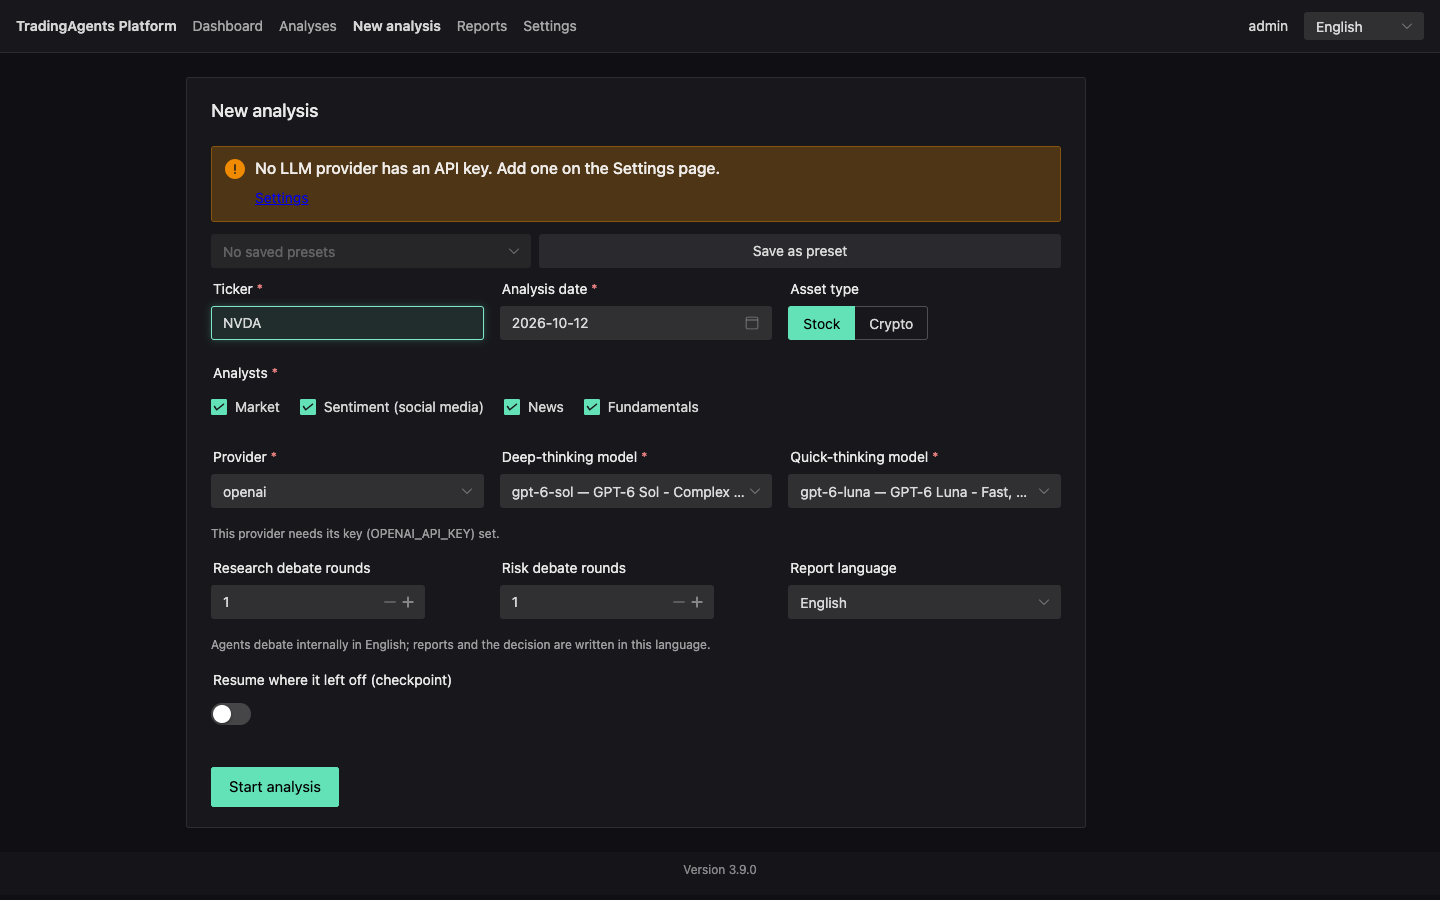
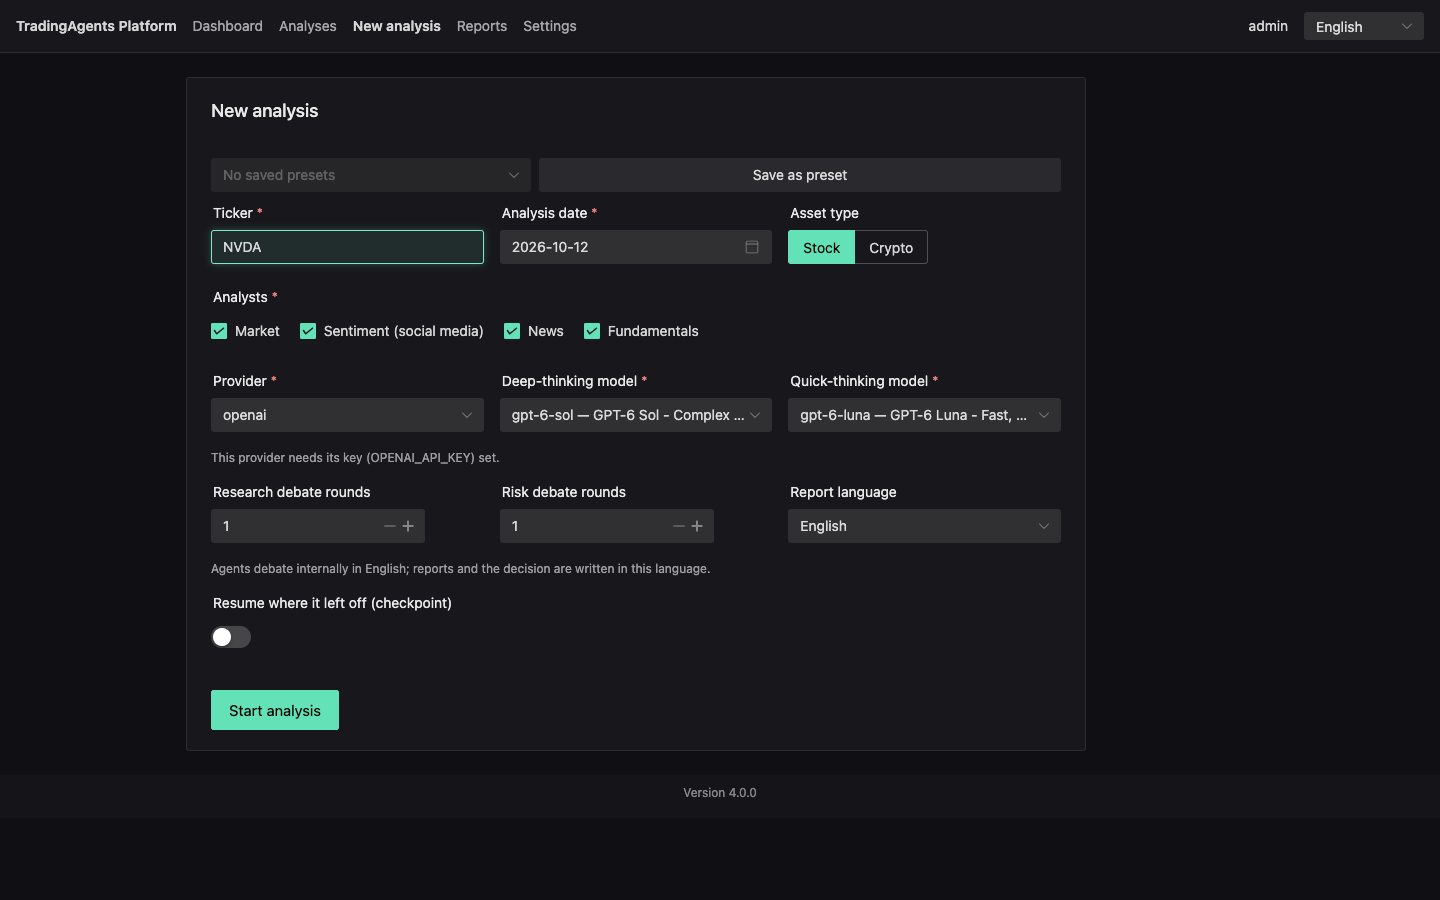
Address R1-1: Restore README screenshots that lost their content

diff --git a/e2e/screenshots/pages.shot.ts b/e2e/screenshots/pages.shot.ts
@@ -1,80 +1,40 @@
-import { expect, test } from '@playwright/test'
+import { expect, test, type APIRequestContext } from '@playwright/test'
 import { replayedRun } from './runs'
 import { shot } from './support'
 import { csrfHeaders } from '../tests/support'
 
+/** A dummy provider key, so the pages show no "no LLM provider has an API key" warning. */
+async function setProviderKey(request: APIRequestContext) {
+  const response = await request.put('/api/secrets/OPENAI_API_KEY', {
+    headers: await csrfHeaders(request),
+    data: { value: 'sk-screenshot-demo-0000' },
+  })
+  expect(response.ok(), await response.text()).toBe(true)
+}
+
 // README, "3. Add an API key": Settings with the provider keys.
-test('settings', async ({ page }) => {
+test('settings', async ({ page, request }) => {
+  await setProviderKey(request)
   await page.goto('/settings')
   await expect(page.getByRole('row', { name: /OPENAI_API_KEY/ })).toBeVisible()
   await shot(page, 'settings')
 })
 
 // README, "4. Start an analysis": the form, once the catalog has filled in the providers and models.
-test('new analysis form', async ({ page }) => {
+test('new analysis form', async ({ page, request }) => {
+  await setProviderKey(request)
   await page.goto('/analyses/new')
   await page.getByPlaceholder('e.g. NVDA, THYAO.IS, BTC-USD').fill('NVDA')
   await expect(page.getByText(/This provider needs its key/)).toBeVisible({ timeout: 30_000 })
+  await expect(page.getByText(/No LLM provider has an API key/)).toHaveCount(0)
   await shot(page, 'new-analysis')
-})
-
-// README, "4. Start an analysis": the presets listed in Settings.
-test('presets in settings', async ({ page, request }) => {
-  const headers = await csrfHeaders(request)
-  const values = {
-    llmProvider: 'deepseek',
-    deepThinkLlm: 'deepseek-v4-pro',
-    quickThinkLlm: 'deepseek-v4-flash',
-    outputLanguage: 'English',
-  }
-  for (const preset of [
-    {
-      name: 'DeepSeek, all analysts',
-      values: {
-        ...values,
-        analysts: ['market', 'social', 'news', 'fundamentals'],
-        maxDebateRounds: 2,
-        maxRiskDiscussRounds: 1,
-      },
-    },
-    {
-      name: 'Quick market check',
-      values: { ...values, analysts: ['market'], maxDebateRounds: 1, maxRiskDiscussRounds: 1 },
-    },
-  ]) {
-    const response = await request.post('/api/presets', { headers, data: preset })
-    expect(response.ok(), await response.text()).toBe(true)
-  }
-
-  await page.goto('/settings')
-  const deletes = page.getByRole('button', { name: 'Delete' })
-  await expect(deletes).toHaveCount(2)
-  // From the "Presets" heading down to the last row: the section has no element of its own.
-  const heading = await page.getByText('Presets', { exact: true }).last().boundingBox()
-  const last = await deletes.last().boundingBox()
-  expect(heading && last).toBeTruthy()
-  const y = heading!.y - 8
-  await shot(page, 'presets', undefined, {
-    x: 186,
-    y,
-    width: 1068,
-    height: last!.y + last!.height + 20 - y,
-  })
 })
 
 // README, "6. Past analyses": the Dashboard with the latest decisions.
 test('dashboard', async ({ page, request }) => {
+  await setProviderKey(request)
   await replayedRun(request, 'NVDA', '2026-09-28')
   await page.goto('/')
   await expect(page.getByText('Overweight').first()).toBeVisible()
   await shot(page, 'dashboard')
-})
-
-// README, "7. Reports and export": the report list, contents and the report.
-test('reports', async ({ page, request }) => {
-  await replayedRun(request, 'NVDA', '2026-09-26')
-  await page.goto('/reports')
-  await page.getByRole('button', { name: /NVDA.*2026-09-26/ }).click()
-  await expect(page.getByRole('navigation', { name: 'Contents' })).toBeVisible()
-  await shot(page, 'reports')
 })
